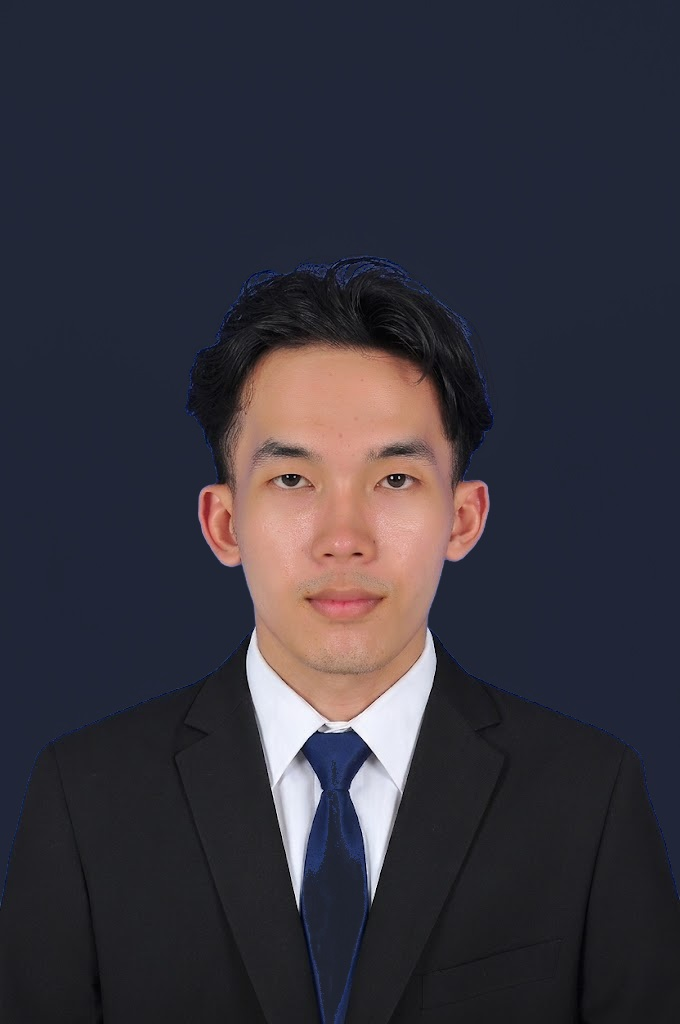
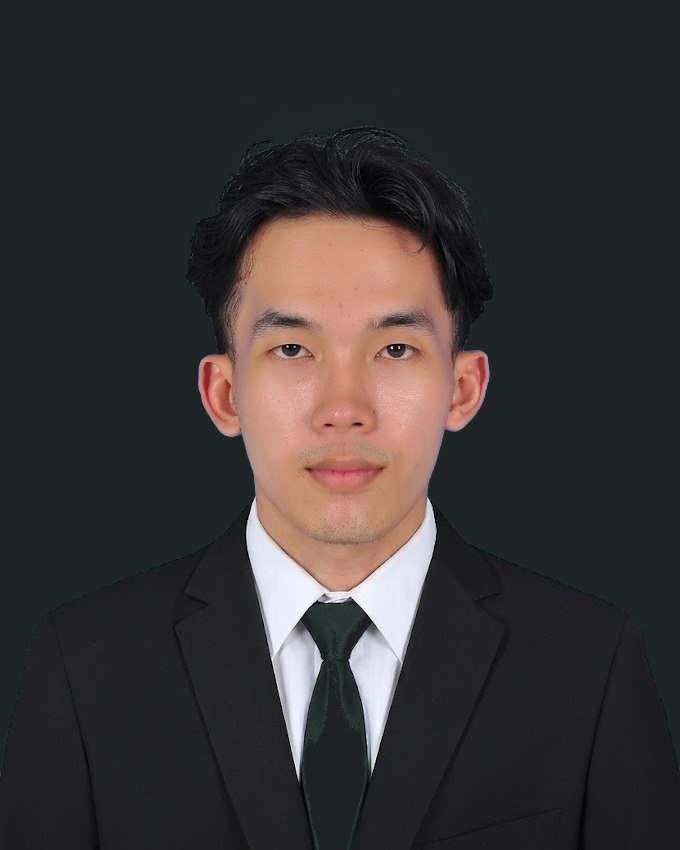
fix(profile-card): crop portrait to native 4:5 ratio, eliminate blue hair halo, and center composition

diff --git a/src/components/ui/ProfileCard.css b/src/components/ui/ProfileCard.css
@@ -173,7 +173,7 @@
   width: calc(100% + var(--pc-parallax) * 2);
   height: calc(100% + var(--pc-parallax) * 2);
   object-fit: cover;
-  object-position: center top;
+  object-position: center center;
   transform: translate3d(var(--pc-shift-x), var(--pc-shift-y), 0);
   pointer-events: none;
   user-select: none;
@@ -259,7 +259,7 @@
   width: 100%;
   height: 100%;
   object-fit: cover;
-  object-position: center top;
+  object-position: center center;
 }
 
 .profile-card__meta {
